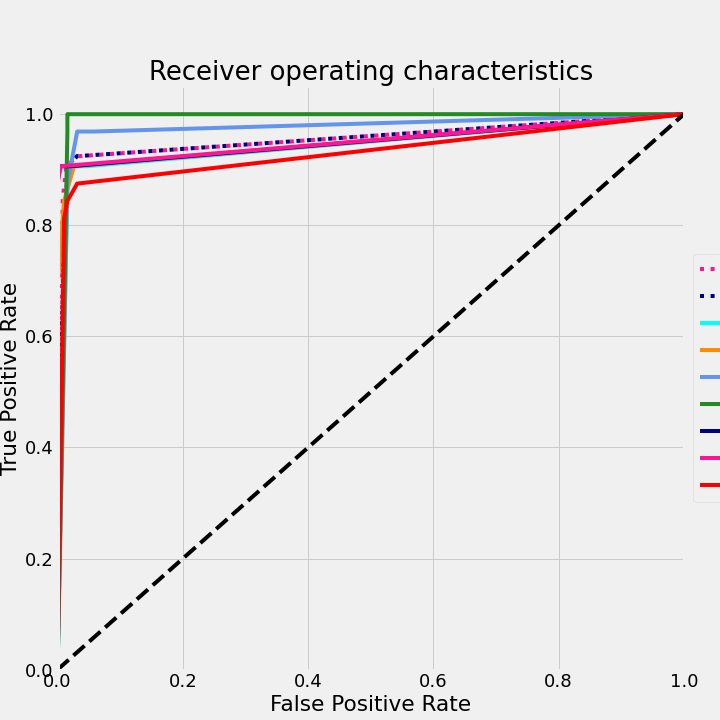
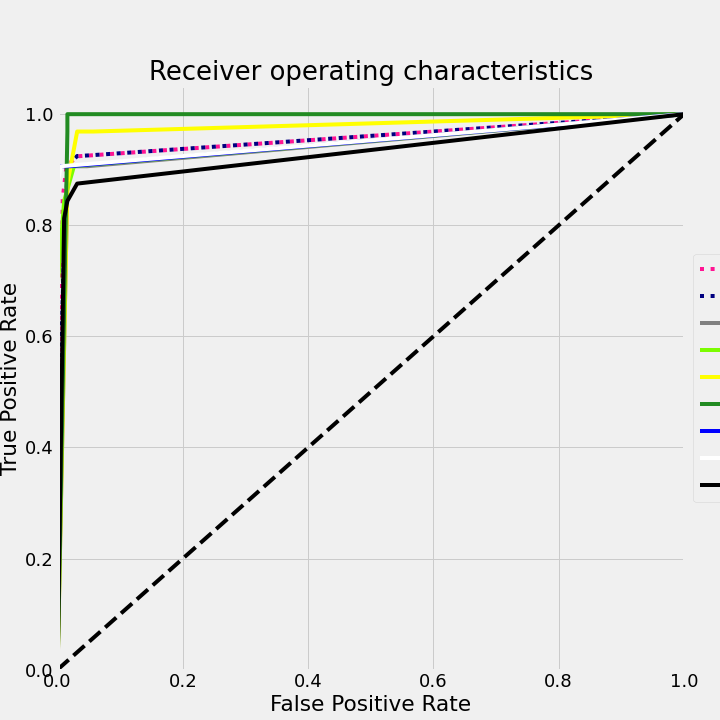
new figure colours

diff --git a/SatelliteKNN.py b/SatelliteKNN.py
@@ -260,7 +260,7 @@ plt.plot(
     linewidth=4,
 )
 
-colors = cycle(["aqua", "darkorange", "cornflowerblue", "forestgreen", "navy", "deeppink", "red"])
+colors = cycle(["grey", "lawngreen", "yellow", "forestgreen", "blue", "white", "black"])
 for i, color in zip(range(n_classes), colors):
     plt.plot(
         fpr[i],
@@ -385,3 +385,7 @@ pi.putpalette(palette)
 # Display and save
 pi.show()
 pi.save('KNN_SatelliteClassification_05.png')
+
+
+from collections import Counter
+Counter(outputFull)

diff --git a/SatelliteRandomForest.py b/SatelliteRandomForest.py
@@ -264,7 +264,7 @@ plt.plot(
     linewidth=4,
 )
 
-colors = cycle(["aqua", "darkorange", "cornflowerblue", "forestgreen", "navy", "deeppink", "red"])
+colors = cycle(["grey", "lawngreen", "yellow", "forestgreen", "blue", "white", "black"])
 for i, color in zip(range(n_classes), colors):
     plt.plot(
         fpr[i],
